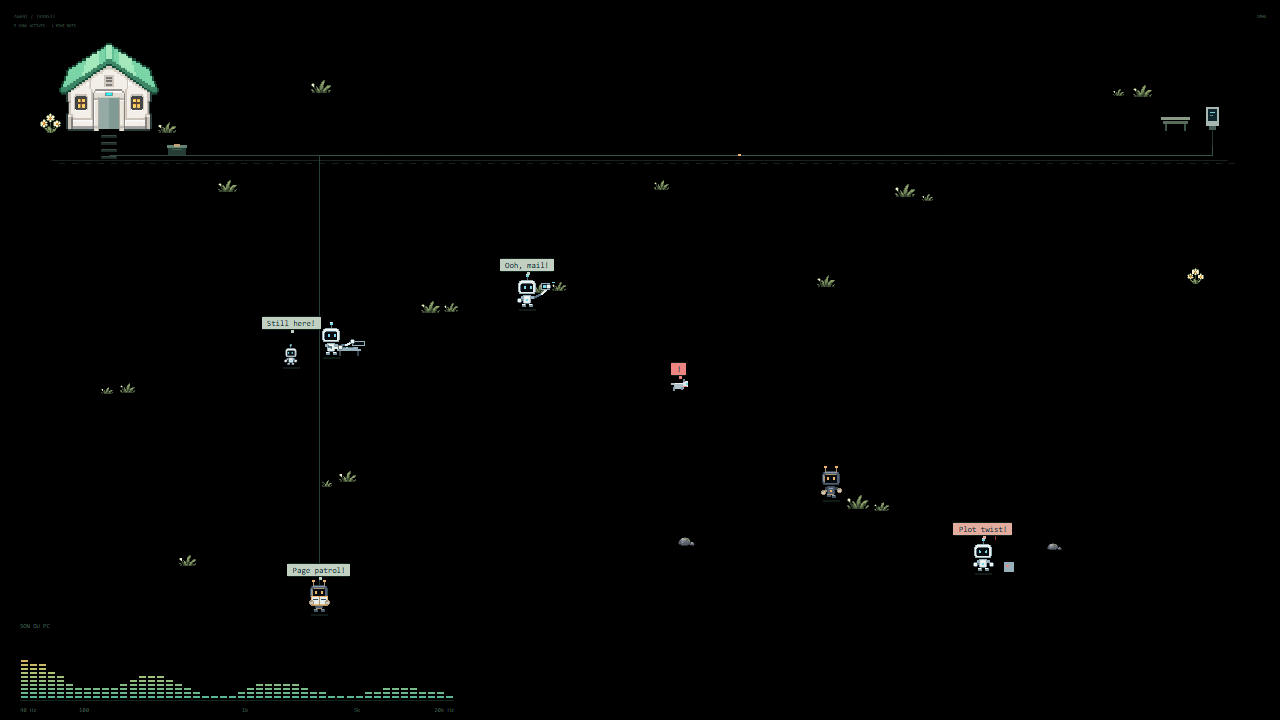
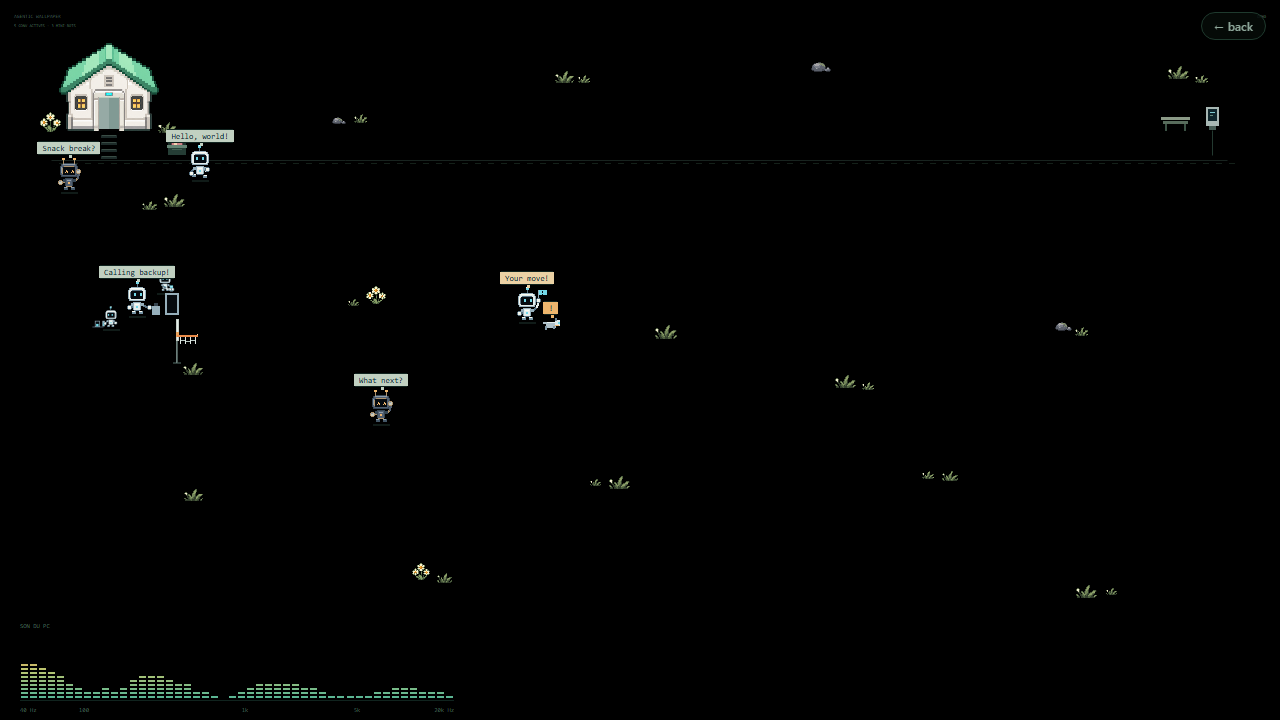
Démo : sous-agents qui sortent du portail, page plein écran, nouvelles fonctionnalités documentées

diff --git a/site/index.html b/site/index.html
@@ -38,6 +38,7 @@
       <div class="actions">
         <a class="btn primary" href="https://github.com/DrMoussavie/agentic-wallpaper/releases/latest/download/agent-transit-wallpaper.zip">⬇ Get it for Wallpaper Engine</a>
         <a class="btn" href="https://github.com/DrMoussavie/agentic-wallpaper" rel="noopener">★ Star on GitHub</a>
+        <a class="btn" href="demo.html" title="Demo alone, full window">⛶ Fullscreen</a>
       </div>
       <p class="compat"><span class="dot cyan"></span> Codex <span class="sep">+</span> <span class="dot amber"></span> Claude Code — both apps, at the same time, in the same garden</p>
       <p class="fine">Free · CC BY-NC 4.0 · Windows · Wallpaper Engine · no API key, nothing leaves your machine</p>
@@ -55,10 +56,14 @@
         <div class="tile"><span class="dot green"></span><h3>The answer ends</h3><p>A little celebration, then the robot walks back home. A new prompt brings it out again; a closed session archives it.</p></div>
       </div>
       <ul class="features">
-        <li><b>Sub-agents</b> orbit their parent as mini-bots and report back when they finish.</li>
+        <li><b>Sub-agents</b> pop out of a portal their parent opens (“Calling backup!”), orbit it as mini-bots and report back when done.</li>
         <li><b>Codex is white &amp; cyan</b>, one antenna. <b>Claude is dark &amp; amber</b>, two antennas.</li>
-        <li><b>A mechanical dog</b> patrols the garden, flags waits and errors, and fetches the ball you throw.</li>
-        <li><b>Audio spectrum</b> of your PC sound, 48 bands from 40 Hz to 20 kHz, with the current track title.</li>
+        <li><b>Prompts land in their hands.</b> The envelope waits at the terminal, slides down the conduit, and the robot starts its quest with the capsule in hand.</li>
+        <li><b>Delivered answers</b> are held up as a letter (“All yours!”) until you come back — then the robot walks home.</li>
+        <li><b>A mechanical dog</b> patrols, flags waits and errors, chases butterflies and fetches the ball. Hold a click on it for a heart.</li>
+        <li><b>A basketball hoop</b> that moves after every basket. Throw the ball yourself, or watch idle robots line up a shot — streaks and best score are kept.</li>
+        <li><b>Butterflies by day, fireflies by night</b> (21:00–07:00, your PC clock).</li>
+        <li><b>Audio spectrum</b> of your PC sound, 48 bands from 40 Hz to 20 kHz, with the current track title. When the bass stays up, resting robots dance and the flowers shake.</li>
         <li><b>Click the garden</b> to call idle robots over. Click a robot to make it wave.</li>
         <li><b>Any screen shape</b>: the garden lays itself out for landscape, portrait, square and ultrawide.</li>
       </ul>
@@ -71,7 +76,7 @@
       <ol class="steps">
         <li><span>1</span><div><b>Download</b> <a href="https://github.com/DrMoussavie/agentic-wallpaper/releases/latest/download/agent-transit-wallpaper.zip">agent-transit-wallpaper.zip</a> and unzip it.</div></li>
         <li><span>2</span><div><b>Copy the folder</b> to <code>…\steamapps\common\wallpaper_engine\projects\myprojects\agent-transit</code></div></li>
-        <li><span>3</span><div>In Wallpaper Engine, open <b>Installed → filter “My projects”</b>, pick <b>Agentic Wallpaper</b>, choose your monitor. Done — decor, dog, ball and native audio work right away.</div></li>
+        <li><span>3</span><div>In Wallpaper Engine, open <b>Installed → filter “My projects”</b>, pick <b>Agentic Wallpaper</b>, choose your monitor. Done — decor, dog, ball, hoop, butterflies and native audio work right away.</div></li>
       </ol>
       <p class="muted">Full walkthrough with screenshots and settings: <a href="https://github.com/DrMoussavie/agentic-wallpaper/blob/master/docs/INSTALL-WALLPAPER-ENGINE.md">docs/INSTALL-WALLPAPER-ENGINE.md</a> · <a href="https://github.com/DrMoussavie/agentic-wallpaper/blob/master/docs/INSTALLATION-WALLPAPER-ENGINE.fr.md">version française</a></p>
     </div>
@@ -146,6 +151,7 @@ document.querySelectorAll('.copy').forEach(b=>b.addEventListener('click',async()
 <script src="media.js"></script>
 <script src="pet-guide.js"></script>
 <script src="toy.js"></script>
+<script src="visitors.js"></script>
 <script src="free-renderer.js"></script>
 <script src="app.js"></script>
 </body>

diff --git a/site/demo.js b/site/demo.js
@@ -34,5 +34,51 @@
     app.world.demoPopulation = Math.min(8, Math.max(4, Math.round(window.innerWidth / 260)));
     app.renderer.settings.bottomMargin = 0; app.renderer.settings.scale = 1.4;
     app.renderer.resize(); app.renderer.draw();
+    scheduleSubagents(app.world);
   });
+
+  // The built-in demo cycle (112 s, see public/world.js) spawns a single mini-bot.
+  // Layer a few more sub-agents on top of it so the house door stays busy: they
+  // come out, orbit their parent, do some work and walk back in. Offsets are
+  // seconds inside the cycle; parents are the demo agents created by the cycle.
+  const SUBS = [
+    [14, 'codex',  'demo-0', 'demo-0:a', 'subagent_start', { label: 'Scout' }],
+    [17, 'codex',  'demo-0', 'demo-0:b', 'subagent_start', { label: 'Tester' }],
+    [21, 'codex',  'demo-0', 'demo-0:a', 'tool_start', { action: 'read', toolId: 'r' }],
+    [23, 'codex',  'demo-0', 'demo-0:b', 'tool_start', { action: 'test', toolId: 't' }],
+    [33, 'codex',  'demo-0', 'demo-0:a', 'tool_end', { toolId: 'r' }],
+    [37, 'codex',  'demo-0', 'demo-0:a', 'subagent_stop', {}],
+    [40, 'codex',  'demo-0', 'demo-0:b', 'tool_end', { toolId: 't' }],
+    [43, 'codex',  'demo-0', 'demo-0:b', 'subagent_stop', {}],
+    [50, 'claude', 'demo-1', 'demo-1:a', 'subagent_start', { label: 'Mini Miette' }],
+    [54, 'claude', 'demo-1', 'demo-1:a', 'tool_start', { action: 'search', toolId: 's' }],
+    [66, 'claude', 'demo-1', 'demo-1:a', 'tool_end', { toolId: 's' }],
+    [70, 'claude', 'demo-1', 'demo-1:a', 'subagent_stop', {}],
+    [78, 'codex',  'demo-4', 'demo-4:a', 'subagent_start', { label: 'Echo II' }],
+    [80, 'codex',  'demo-4', 'demo-4:b', 'subagent_start', { label: 'Echo III' }],
+    [83, 'codex',  'demo-4', 'demo-4:a', 'tool_start', { action: 'type', toolId: 'y' }],
+    [85, 'codex',  'demo-4', 'demo-4:b', 'tool_start', { action: 'tool', toolId: 'o' }],
+    [95, 'codex',  'demo-4', 'demo-4:a', 'tool_end', { toolId: 'y' }],
+    [98, 'codex',  'demo-4', 'demo-4:a', 'subagent_stop', {}],
+    [100, 'codex', 'demo-4', 'demo-4:b', 'tool_end', { toolId: 'o' }],
+    [104, 'codex', 'demo-4', 'demo-4:b', 'subagent_stop', {}],
+  ];
+  function scheduleSubagents(world) {
+    let cycle = -1, fired = new Set();
+    // Piggyback on world.update so it also works when TransitApp.advance() fast-forwards time.
+    const update = world.update.bind(world);
+    world.update = dt => {
+      update(dt);
+      if (world.mode !== 'demo') return;
+      const c = Math.floor(world.time / 112), t = world.time % 112;
+      if (c !== cycle) { cycle = c; fired = new Set(); }
+      SUBS.forEach((row, i) => {
+        const [at, provider, sessionId, agentId, type, extra] = row;
+        if (fired.has(i) || at > t) return;
+        fired.add(i);
+        if (!world.agents.has(`${provider}:${sessionId}`)) return; // parent not in this cycle
+        world.apply({ id: `sub-${c}-${i}`, provider, sessionId, agentId, type, ...extra });
+      });
+    };
+  }
 })();

diff --git a/site/demo.html b/site/demo.html
@@ -1,0 +1,1 @@
+<!doctype html><html lang="en"><head><meta charset="utf-8"><meta name="viewport" content="width=device-width,initial-scale=1"><title>Agentic Wallpaper — fullscreen demo</title><link rel="icon" href="icon.svg"><style>html,body{margin:0;width:100%;height:100%;overflow:hidden;background:#000}canvas{display:block;width:100%;height:100%;image-rendering:pixelated;touch-action:none;cursor:crosshair}a.back{position:fixed;top:12px;right:14px;font:600 12px/1 system-ui,sans-serif;color:#8fa89b;text-decoration:none;background:rgba(6,12,9,.8);border:1px solid #1f3a2e;border-radius:999px;padding:7px 12px}a.back:hover{color:#e6efe9}</style></head><body><canvas id="world" aria-label="Agentic Wallpaper demo"></canvas><a class="back" href="./">← back</a><script src="demo.js"></script><script src="animations.js"></script><script src="gestures.js"></script><script src="rig.js"></script><script src="world.js"></script><script src="props.js"></script><script src="life.js"></script><script src="audio.js"></script><script src="media.js"></script><script src="pet-guide.js"></script><script src="toy.js"></script><script src="visitors.js"></script><script src="free-renderer.js"></script><script src="app.js"></script></body></html>

diff --git a/docs/INSTALLATION-WALLPAPER-ENGINE.fr.md b/docs/INSTALLATION-WALLPAPER-ENGINE.fr.md
@@ -66,6 +66,8 @@ Tout s'applique en direct, sans redémarrage.
 | Chien guide | activé | Patrouille, signale attentes et erreurs, rapporte la balle |
 | Balle à lancer | activé | Glisse sur le bureau pour lancer ; le chien la range |
 | Promenades / Rencontres | activé | Les robots disponibles se baladent et se saluent |
+| Panier de basket | activé | Change de place à chaque panier ; les robots disponibles tirent ; meilleure série mémorisée |
+| Papillons / lucioles | activé | Papillons le jour, lucioles de 21 h à 7 h (heure du PC) |
 | Bulles / taille | activé / Lisibles | Petites phrases en anglais |
 | Spectre du son du PC | activé | En bas à gauche, 48 bandes |
 | Source du spectre | Relais local | Passe sur **Audio natif WE** si tu **ne** lances **pas** le relais |

diff --git a/docs/INSTALL-WALLPAPER-ENGINE.md b/docs/INSTALL-WALLPAPER-ENGINE.md
@@ -66,6 +66,8 @@ All of them are live; no restart needed.
 | Guide dog | on | Patrols, flags waits and errors, fetches the ball |
 | Ball to throw | on | Drag on the desktop to throw; the dog brings it back |
 | Free roaming / Meetings | on | Idle robots wander and greet each other |
+| Basketball hoop | on | Moves after each basket; idle robots take shots; best streak is remembered |
+| Butterflies / fireflies | on | Butterflies by day, fireflies 21:00–07:00 (PC clock) |
 | Speech bubbles / size | on / Readable | Short English quips |
 | PC sound spectrum | on | Bottom-left, 48 bands |
 | Spectrum source | Local relay | Switch to **Native WE audio** if you do **not** run the relay |
